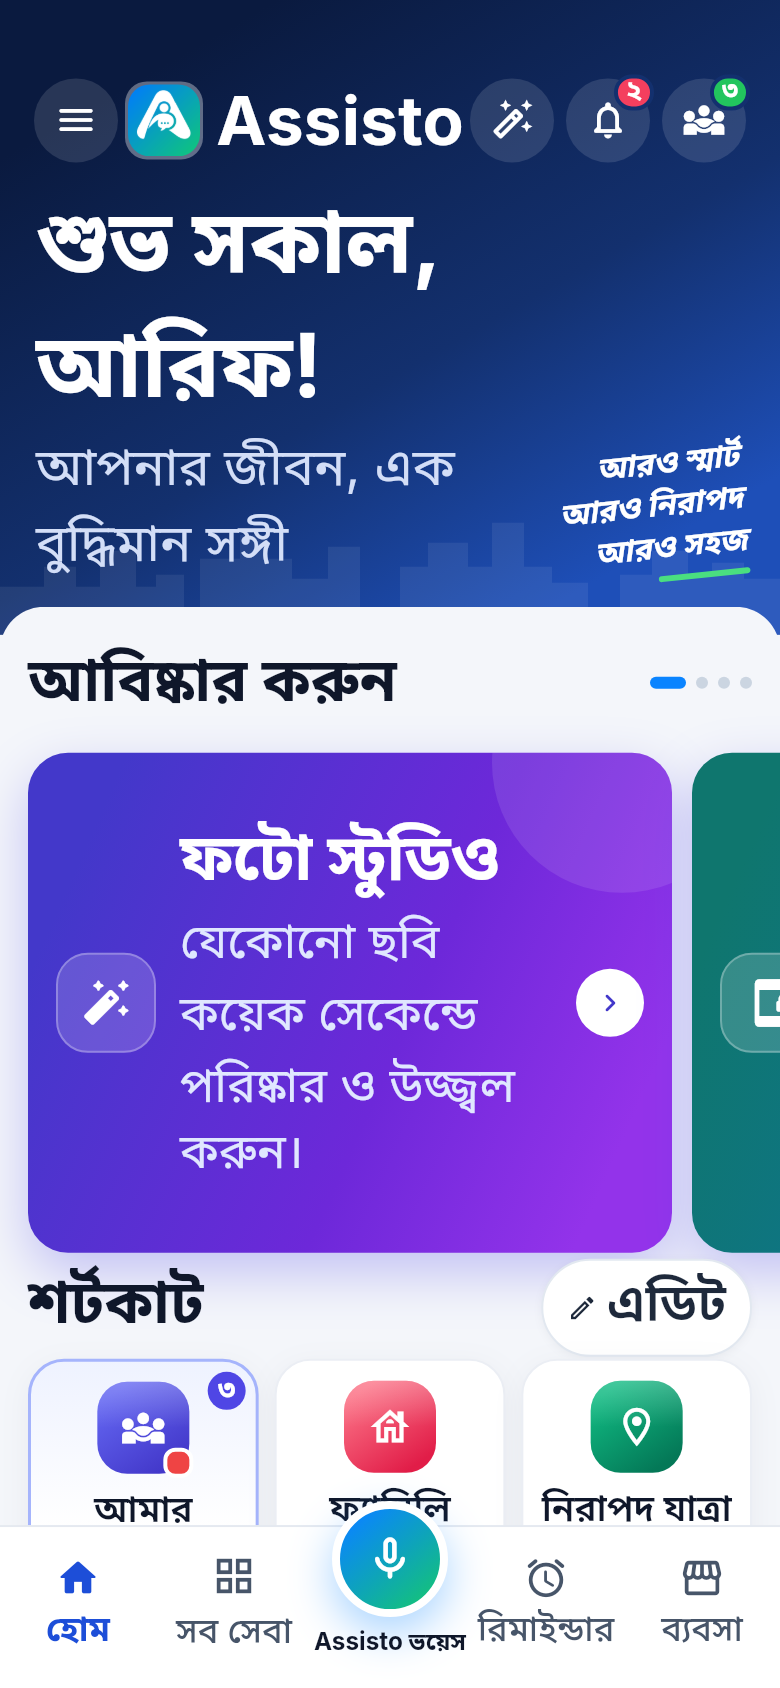
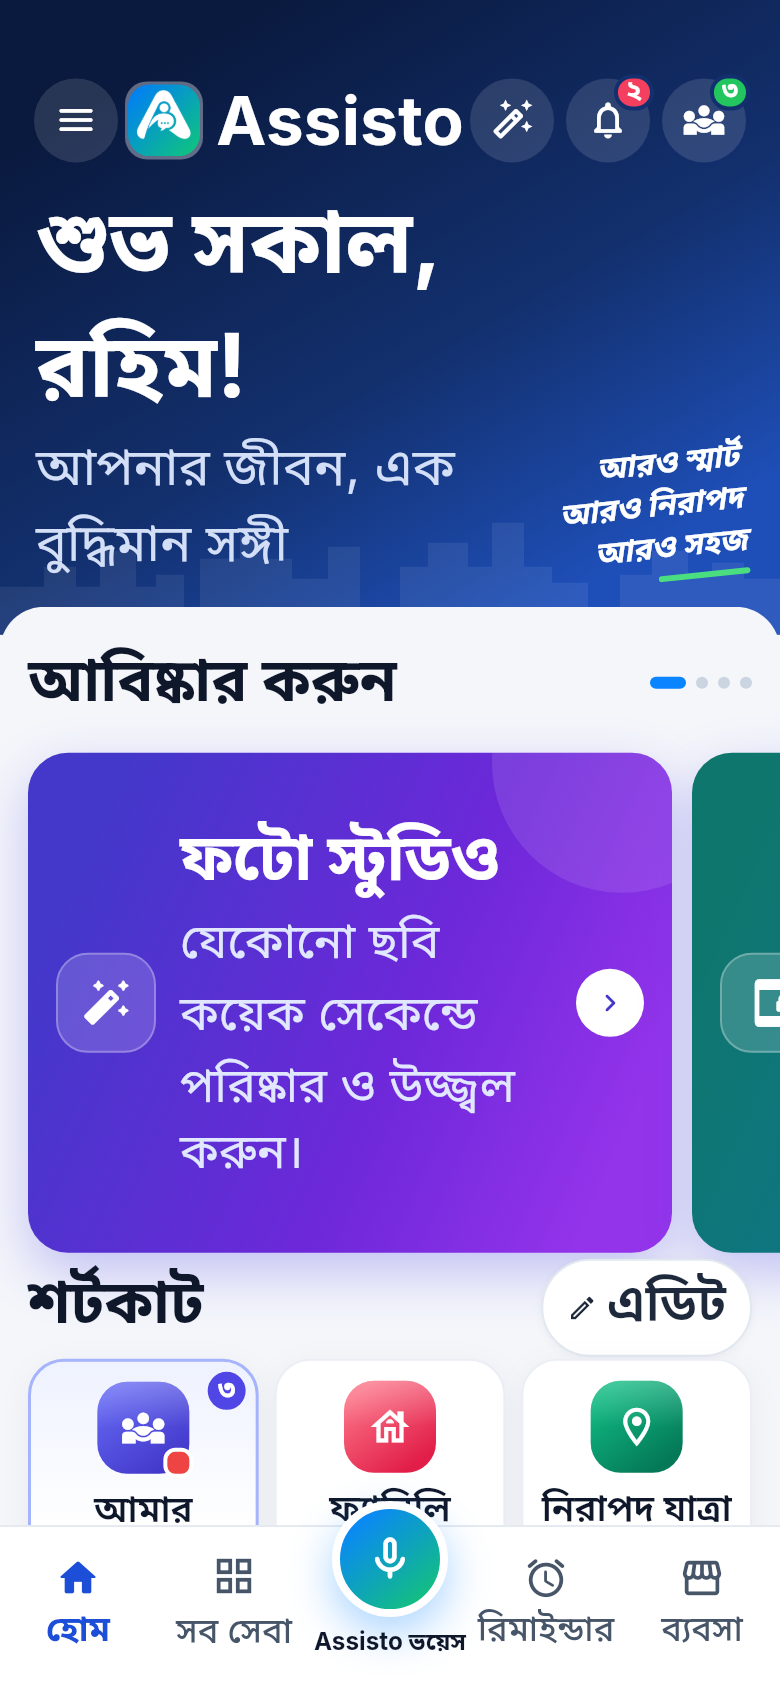
home_v2: sample user name Rahim (not the owner's) in fixtures + regenerated design PNGs

Changed region(s): [[0.0615, 0.1848, 0.4, 0.2464]]

diff --git a/app/test/home_v2_test.dart b/app/test/home_v2_test.dart
@@ -61,12 +61,12 @@ class _TrackApi extends FakeApi {
   }
 }
 
-AppState _state(String lang, {FakeApi? api, String name = 'Arif Hossain'}) {
+AppState _state(String lang, {FakeApi? api, String? name}) {
   final s = AppState();
   s.api = api ?? FakeApi(lang: lang);
   s.user = AppUser(
       id: 1,
-      name: name,
+      name: name ?? (lang == 'bn' ? 'রহিম উদ্দিন' : 'Rahim Uddin'),
       phone: '+8801700000000',
       email: '',
       autonomyLevel: 2,
@@ -188,7 +188,7 @@ void main() {
       expect(g(19), t.hv2GreetEvening);
       expect(g(23), t.hv2GreetNight);
       expect(g(3), t.hv2GreetNight);
-      expect(hv2FirstName('Arif Hossain'), 'Arif');
+      expect(hv2FirstName('Rahim Uddin'), 'Rahim');
       expect(hv2FirstName('  '), isNull);
       expect(hv2FirstName('+8801700000000'), isNull);
     });
@@ -198,7 +198,7 @@ void main() {
           (tester) async {
         await _pump(tester, _home(), lang: lang);
         final t = _t(tester);
-        expect(find.text(t.hv2GreetName(t.hv2GreetMorning, 'Arif')),
+        expect(find.text(t.hv2GreetName(t.hv2GreetMorning, lang == 'bn' ? 'রহিম' : 'Rahim')),
             findsOneWidget);
         expect(find.text(lang == 'bn' ? '২' : '2'), findsOneWidget);
         // header + pinned tile both show the circle count

diff --git a/app/test/screenshots_test.dart b/app/test/screenshots_test.dart
@@ -306,7 +306,7 @@ AppState _stub({required String lang, FakeMode mode = FakeMode.data}) {
   s.api = FakeApi(mode: mode, lang: lang);
   s.user = AppUser(
       id: 1,
-      name: lang == 'bn' ? 'আরিফ' : 'Arif',
+      name: lang == 'bn' ? 'রহিম' : 'Rahim',
       phone: '01712345678',
       email: '',
       autonomyLevel: 2,
